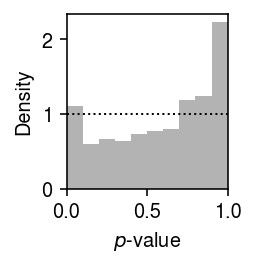
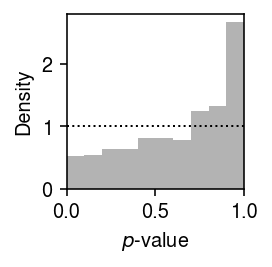
Run SGD longer to get closer to an optimum

diff --git a/docs/mpebpm.html b/docs/mpebpm.html
@@ -1,7 +1,7 @@
 <!DOCTYPE html>
 <html lang="en">
 <head>
-<!-- 2020-03-18 Wed 11:22 -->
+<!-- 2020-03-18 Wed 12:01 -->
 <meta charset="utf-8">
 <meta name="viewport" content="width=device-width, initial-scale=1">
 <title>Massively Parallel Empirical Bayes Poisson Means</title>
@@ -420,7 +420,7 @@ Run the simulation.
 </p>
 
 <div class="org-src-container">
-<pre class="src src-ipython"><span class="org-variable-name">result</span> = evaluate(num_samples=100, num_mols=<span class="org-builtin">int</span>(1e5), batch_size=32, max_epochs=100, verbose=<span class="org-constant">True</span>)
+<pre class="src src-ipython"><span class="org-variable-name">result</span> = evaluate(num_samples=100, num_mols=<span class="org-builtin">int</span>(1e5), batch_size=32, max_epochs=200, verbose=<span class="org-constant">True</span>)
 result.to_csv(<span class="org-string">'/scratch/midway2/aksarkar/ideas/mpebpm-sim.txt.gz'</span>, sep=<span class="org-string">'\t'</span>)
 </pre>
 </div>
@@ -541,83 +541,7 @@ sig.shape[0], sig.shape[0] / result.shape[0]
 </div>
 
 <pre class="example">
-(29, 0.01183673469387755)
-
-</pre>
-
-<p>
-Plot the simulated data, ground truth \(g\), and estimated \(\hat{g}\) for
-one of the simulation trials where the data significantly departed from the
-estimated distribution.
-</p>
-
-<div class="org-src-container">
-<pre class="src src-ipython"><span class="org-variable-name">kwargs</span> = <span class="org-builtin">dict</span>(sig.iloc[0][[<span class="org-string">'num_samples'</span>, <span class="org-string">'num_mols'</span>, <span class="org-string">'log_mu'</span>, <span class="org-string">'log_phi'</span>, <span class="org-string">'logodds'</span>, <span class="org-string">'trial'</span>]])
-<span class="org-variable-name">kwargs</span>[<span class="org-string">'num_samples'</span>] = <span class="org-builtin">int</span>(kwargs[<span class="org-string">'num_samples'</span>])
-<span class="org-variable-name">kwargs</span>[<span class="org-string">'size'</span>] = kwargs.pop(<span class="org-string">'num_mols'</span>)
-<span class="org-variable-name">kwargs</span>[<span class="org-string">'seed'</span>] = <span class="org-builtin">int</span>(kwargs.pop(<span class="org-string">'trial'</span>))
-<span class="org-variable-name">x</span> = scqtl.simulation.simulate(**kwargs)[0][:,:1]     
-</pre>
-</div>
-
-<div class="org-src-container">
-<pre class="src src-ipython"><span class="org-variable-name">cm</span> = plt.get_cmap(<span class="org-string">'Dark2'</span>)
-plt.gcf()
-<span class="org-variable-name">fig</span>, <span class="org-variable-name">ax</span> = plt.subplots(2, 1)
-fig.set_size_inches(6, 4)
-
-<span class="org-variable-name">query</span> = sig.iloc[0]
-<span class="org-variable-name">grid</span> = np.arange(x.<span class="org-builtin">max</span>() + 1)
-<span class="org-variable-name">F</span> = sp.expit(-query[<span class="org-string">'logodds'</span>]) * st.nbinom(n=np.exp(-query[<span class="org-string">'log_phi'</span>]), p=1 / (1 + 1e5 * np.exp(query[<span class="org-string">'log_mu'</span>] + query[<span class="org-string">'log_phi'</span>]))).pmf(grid)
-<span class="org-variable-name">F</span>[0] += sp.expit(query[<span class="org-string">'logodds'</span>])
-<span class="org-variable-name">Fhat</span> = sp.expit(-query[<span class="org-string">'logodds_hat'</span>]) * st.nbinom(n=np.exp(-query[<span class="org-string">'log_phi_hat'</span>]), p=1 / (1 + 1e5 * np.exp(query[<span class="org-string">'log_mu_hat'</span>] + query[<span class="org-string">'log_phi_hat'</span>]))).pmf(grid)
-<span class="org-variable-name">Fhat</span>[0] += sp.expit(query[<span class="org-string">'logodds_hat'</span>])
-ax[0].hist(x, bins=grid, color=<span class="org-string">'k'</span>)
-ax[0].plot(grid + 0.5, 100 * F, c=cm(0))
-ax[0].plot(grid + 0.5, 100 * Fhat, c=cm(1))
-ax[0].set_xlabel(<span class="org-string">'Number of molecules'</span>)
-ax[0].set_ylabel(<span class="org-string">'Number of cells'</span>)
-
-<span class="org-variable-name">grid</span> = np.linspace(0, 1e-3, 1000)
-<span class="org-variable-name">G</span> = sp.expit(query[<span class="org-string">'logodds'</span>]) + sp.expit(-query[<span class="org-string">'logodds'</span>]) * st.gamma(a=np.exp(-query[<span class="org-string">'log_phi'</span>]), scale=np.exp(query[<span class="org-string">'log_mu'</span>] + query[<span class="org-string">'log_phi'</span>])).cdf(grid)
-<span class="org-variable-name">Ghat</span> = sp.expit(query[<span class="org-string">'logodds_hat'</span>]) + sp.expit(-query[<span class="org-string">'logodds_hat'</span>]) * st.gamma(a=np.exp(-query[<span class="org-string">'log_phi_hat'</span>]), scale=np.exp(query[<span class="org-string">'log_mu_hat'</span>] + query[<span class="org-string">'log_phi_hat'</span>])).cdf(grid)
-
-ax[1].plot(grid, G, c=cm(0), label=<span class="org-string">'True g'</span>)
-ax[1].plot(grid, Ghat, c=cm(1), label=<span class="org-string">'Estimated $\hat{g}$'</span>)
-ax[1].set_xlabel(<span class="org-string">'Latent gene expression'</span>)
-ax[1].set_ylabel(<span class="org-string">'CDF'</span>)
-ax[1].legend(frameon=<span class="org-constant">False</span>)
-
-fig.tight_layout()
-</pre>
-</div>
-
-
-<div class="figure">
-<p><img src="figure/mpebpm.org/sim-ex.png" alt="sim-ex.png">
-</p>
-</div>
-
-<p>
-This case appears to be explained by the fact that we initialize at the
-fitted Gamma distribution. It is also outside the range of parameters which
-we previously found <code>scqtl</code> was able to accurately estimate. Compare the log
-likelihood of the observed data under the two distributions.
-</p>
-
-<div class="org-src-container">
-<pre class="src src-ipython"><span class="org-variable-name">F</span> = sp.expit(-query[<span class="org-string">'logodds'</span>]) * st.nbinom(n=np.exp(-query[<span class="org-string">'log_phi'</span>]), p=1 / (1 + 1e5 * np.exp(query[<span class="org-string">'log_mu'</span>] + query[<span class="org-string">'log_phi'</span>]))).pmf(x)
-<span class="org-comment-delimiter"># </span><span class="org-comment">log(sigmoid(x)) = -softplus(-x)</span>
-<span class="org-variable-name">l0</span> = np.where(x == 0, -np.log(1 + np.exp(-query[<span class="org-string">'logodds'</span>])) + np.log(F), np.log(F)).<span class="org-builtin">sum</span>()
-
-<span class="org-variable-name">Fhat</span> = sp.expit(-query[<span class="org-string">'logodds_hat'</span>]) * st.nbinom(n=np.exp(-query[<span class="org-string">'log_phi_hat'</span>]), p=1 / (1 + 1e5 * np.exp(query[<span class="org-string">'log_mu_hat'</span>] + query[<span class="org-string">'log_phi_hat'</span>]))).pmf(x)
-<span class="org-variable-name">l1</span> = np.where(x == 0, -np.log(1 + np.exp(-query[<span class="org-string">'logodds_hat'</span>])) + np.log(Fhat), np.log(Fhat)).<span class="org-builtin">sum</span>()
-l0, l1
-</pre>
-</div>
-
-<pre class="example">
-(-1484.0973317567657, -491.4170443633362)
+(0, 0.0)
 
 </pre>
 </div>
@@ -669,7 +593,7 @@ Read the metadata.
 </div>
 <div id="postamble" class="status">
 <p class="author">Author: Abhishek Sarkar</p>
-<p class="date">Created: 2020-03-18 Wed 11:22</p>
+<p class="date">Created: 2020-03-18 Wed 12:01</p>
 <p class="validation"><a href="http://validator.w3.org/check?uri=referer">Validate</a></p>
 </div>
 </body>
